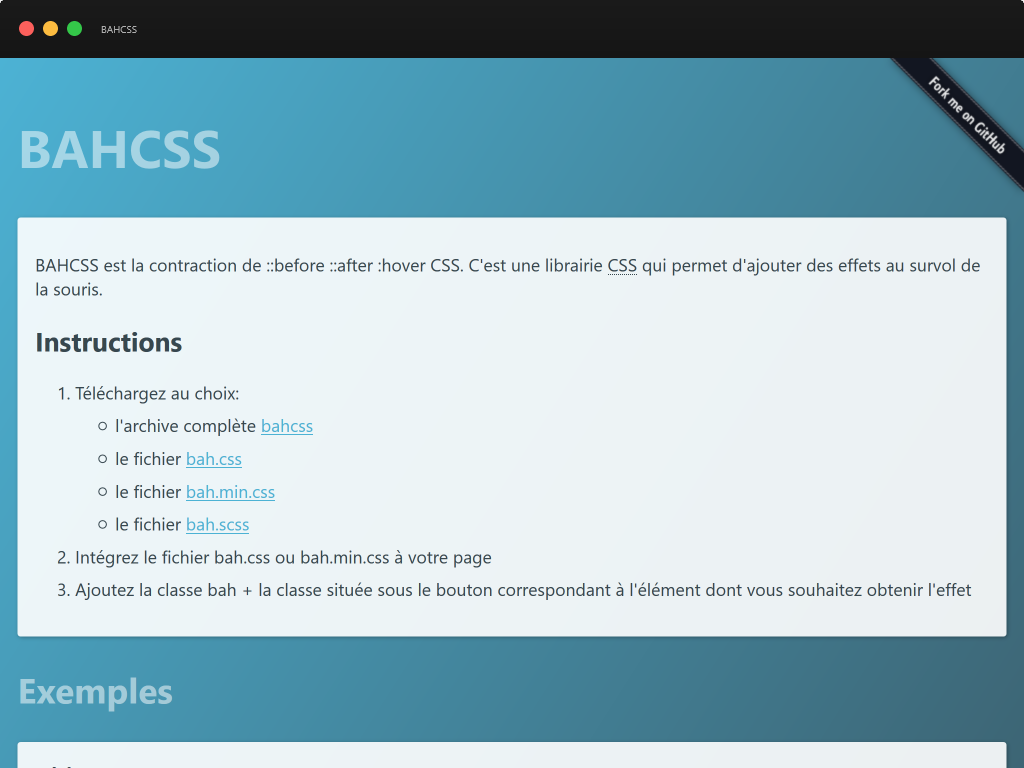
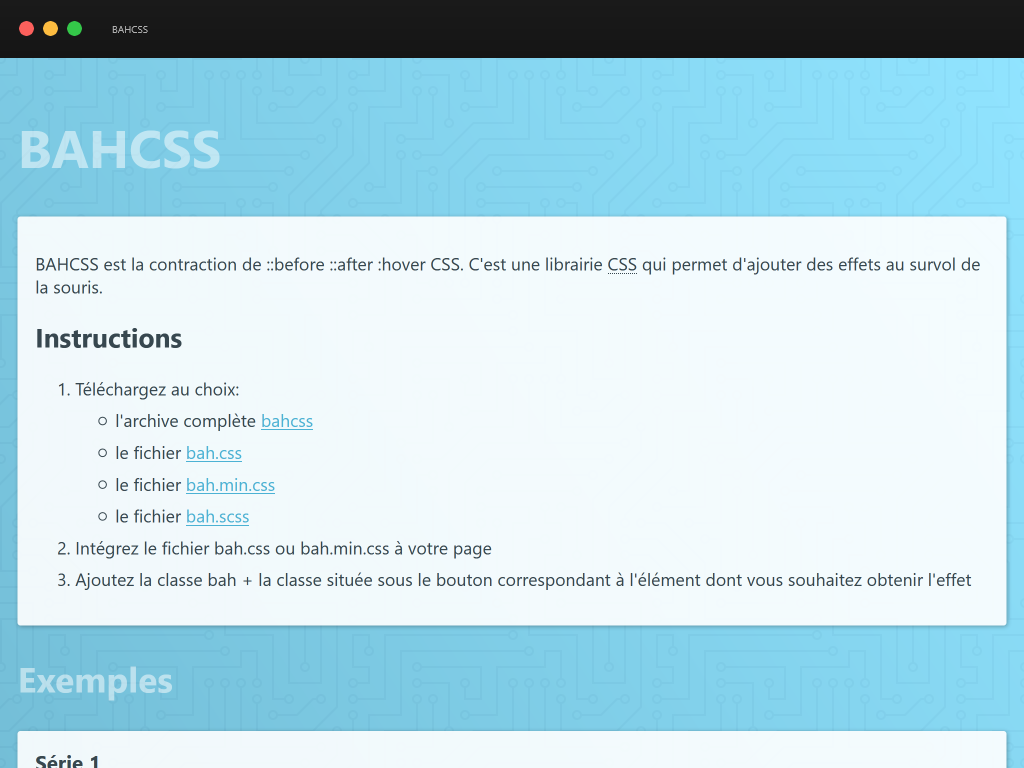
Update background

diff --git a/style.css b/style.css
@@ -49,8 +49,8 @@ body {
   font-family: -apple-system,BlinkMacSystemFont,'Segoe UI',Roboto,Oxygen-Sans,Ubuntu,Cantarell,'Helvetica Neue',sans-serif;
   font-size: 110%;
   color: #37474F;
-  background-image: linear-gradient(to bottom right,#4CB2D4,#37474F);
-  background-size: cover;
+  background:-webkit-linear-gradient(bottom left, rgba(117,221,255,.8),rgba(67,156,186,.8)), url('bg.svg');
+      background-image: linear-gradient(to bottom left,rgba(117,221,255,.8),rgba(67,156,186,.8)), url('bg.svg');
 }
 
 header {

diff --git a/README.md b/README.md
@@ -48,6 +48,8 @@ BAHCSS est la contraction de ::before ::after :hover CSS. C'est une librairie CS
 
 * Ajout de la font icon Icomoon
 * Maj du footer
+* Maj du background
+* Maj de la capture d'écran
 
 **12/06/2018**
 
